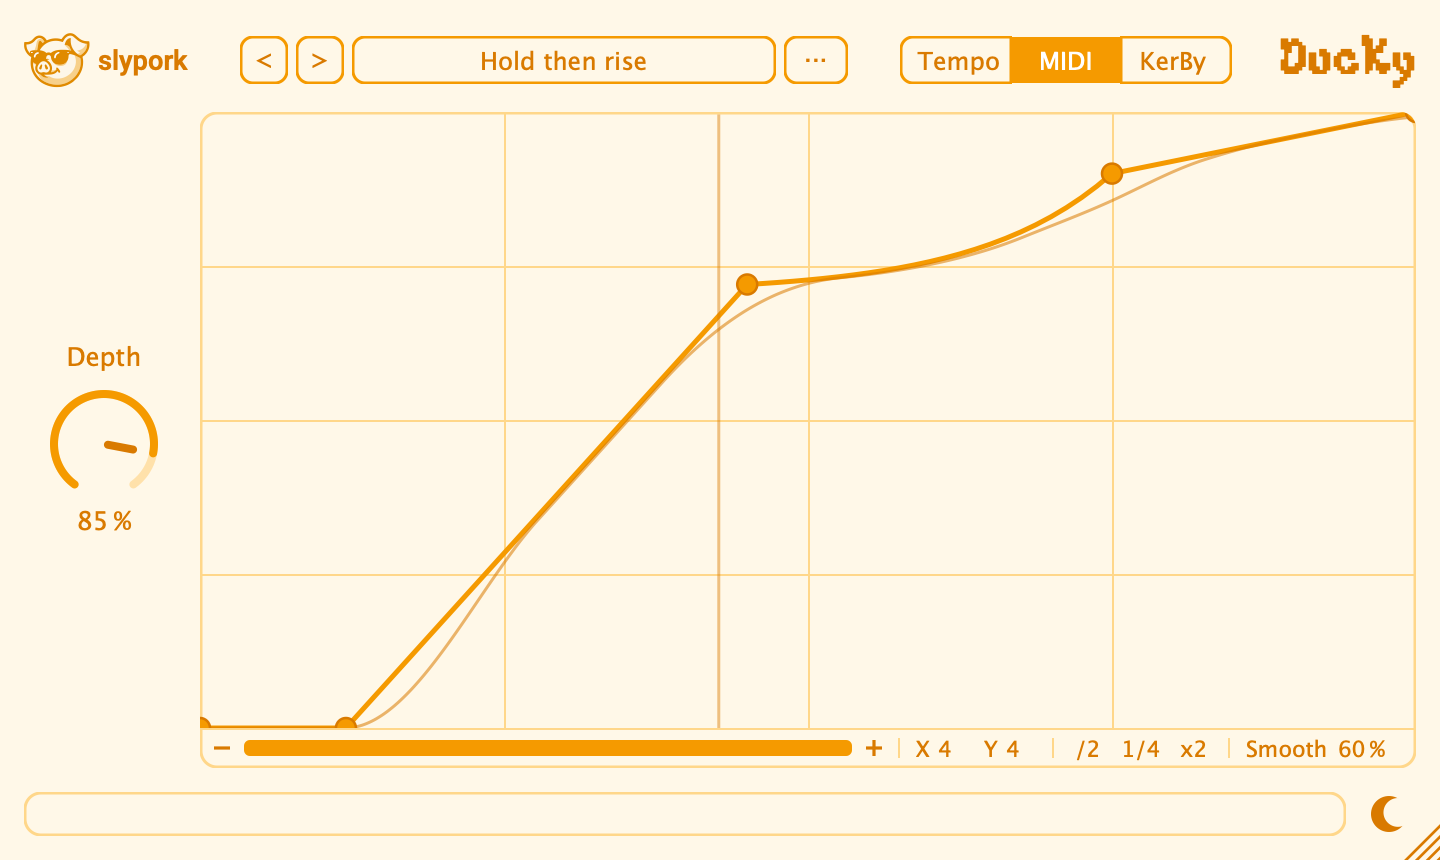
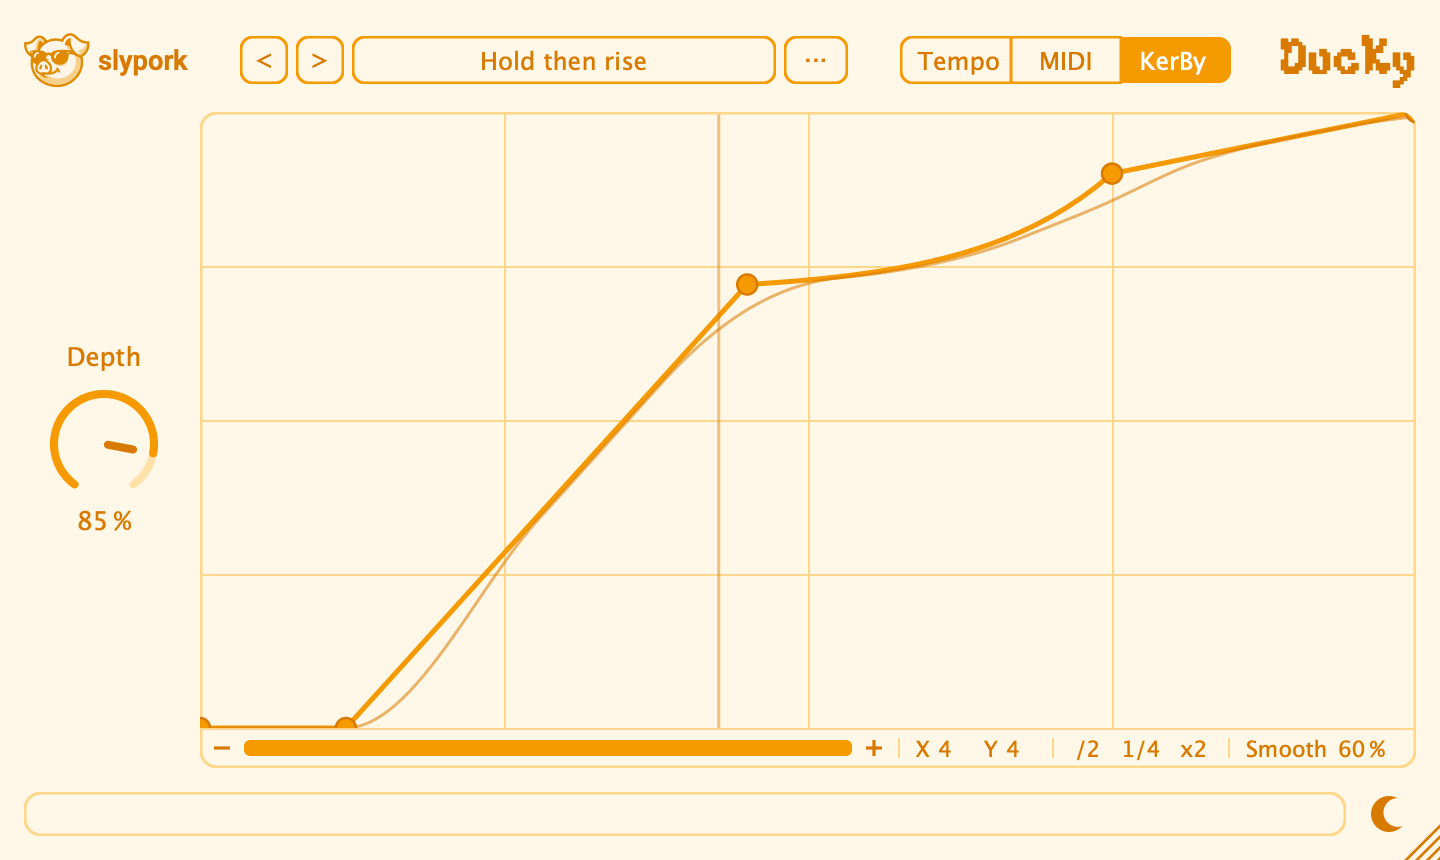
DucKy page leads with KerBy's kick; its capture shows KerBy chosen
The intro and the search and social descriptions open with using KerBy's
kick to duck any track or group with no MIDI routing. "Appears once KerBy is
installed" goes: DucKy now always shows the KerBy cell. The full captures
are the KerBy-trigger pair. Tighter copy through the rest of the page.

Changed region(s): [[0.6875, 0.0302, 0.875, 0.1209]]

diff --git a/ducky/index.html b/ducky/index.html
@@ -9,12 +9,12 @@
     <meta name="viewport" content="width=device-width">
     <title>DucKy | Slypork</title>
     <meta name="description"
-        content="DucKy is a free ducking effect. It dips the volume of any track on the beat, on every MIDI note you send it, or on KerBy’s kick, with a shape you draw. macOS and Windows. Out 10 November.">
+        content="DucKy is a free ducking effect. Use KerBy’s kick to duck any track or group, with no MIDI routing, or duck on the beat or on every MIDI note. Draw the shape yourself. macOS and Windows. Out 10 November.">
     <meta property="og:type" content="website">
     <meta property="og:site_name" content="Slypork">
     <meta property="og:title" content="DucKy: a free ducking effect">
     <meta property="og:description"
-        content="DucKy is a free ducking effect. It dips the volume of any track on the beat, on every MIDI note you send it, or on KerBy’s kick, with a shape you draw. macOS and Windows. Out 10 November.">
+        content="DucKy is a free ducking effect. Use KerBy’s kick to duck any track or group, with no MIDI routing, or duck on the beat or on every MIDI note. Draw the shape yourself. macOS and Windows. Out 10 November.">
     <meta property="og:url" content="https://slypork.net/ducky/">
     <meta property="og:image" content="https://slypork.net/assets/images/software/DucKy_lightmode.png">
     <meta property="og:image:width" content="1440">
@@ -98,8 +98,8 @@
                         <p class="kerby-eyebrow">Effect plugin · Free</p>
                         <h1 class="font-kerby">DucKy</h1>
                         <p class="kerby-lead">KerBy’s duck,<br>on anything.</p>
-                        <p class="kerby-intro">Put it on any track or group and it dips the volume on the beat, on
-                            every MIDI note you send it, or on KerBy’s kick. Draw the shape of the dip and set how deep it goes.</p>
+                        <p class="kerby-intro">A simple volume shaper. Use KerBy’s kick to duck any track or group, with
+                            no MIDI routing.</p>
                         <p class="kerby-availability">Free · out 10 November, alongside <a href="/kerby/"
                                 class="link-underline">KerBy</a>
                             <span>macOS 11+ · AU / VST3</span>
@@ -115,7 +115,7 @@
                                     srcset="/assets/images/software/DucKy_darkmode.png">
                                 <img src="/assets/images/software/DucKy_lightmode.png" width="1440" height="860"
                                     fetchpriority="high"
-                                    alt="DucKy: a drawn duck shape fills the plot, with the Depth knob beside it, Tempo, MIDI and KerBy at the top, and Duck Rate and Smooth along the plot’s bottom edge.">
+                                    alt="DucKy: a drawn duck shape fills the plot, with the Depth knob beside it, KerBy chosen from Tempo, MIDI and KerBy at the top, and Duck Rate and Smooth along the plot’s bottom edge.">
                             </picture>
                         </a>
                         <figcaption><span>Click to take a closer look <span aria-hidden="true">↑</span></span>
@@ -124,7 +124,7 @@
 
                     <section class="kerby-section" aria-labelledby="ducky-trigger-heading">
                         <p class="kerby-eyebrow">Trigger it</p>
-                        <h2 id="ducky-trigger-heading">On the beat, on every note, or on the kick.</h2>
+                        <h2 id="ducky-trigger-heading">On the beat, the notes or the kick.</h2>
                         <div class="kerby-play-modes">
                             <div>
                                 <h3>
@@ -137,8 +137,7 @@
                                     </picture>
                                     Follow the tempo
                                 </h3>
-                                <p>Ducks at the <span class="kerby-ui">Duck Rate</span>, from 1/1 to 1/16, in time
-                                    with your DAW.</p>
+                                <p>Ducks at the <span class="kerby-ui">Duck Rate</span>, from 1/1 to 1/16.</p>
                             </div>
                             <div>
                                 <h3>
@@ -151,8 +150,7 @@
                                     </picture>
                                     Follow the notes
                                 </h3>
-                                <p>Ducks on every note you send it, on any channel or pitch, even with the transport
-                                    stopped.</p>
+                                <p>Ducks on every MIDI note you send it.</p>
                             </div>
                             <div>
                                 <h3>
@@ -166,7 +164,7 @@
                                     Follow KerBy
                                 </h3>
                                 <p>Ducks on every kick from <a href="/kerby/" class="link-underline">KerBy</a>, with no
-                                    MIDI routing. This option appears once KerBy is installed.</p>
+                                    MIDI routing.</p>
                             </div>
                         </div>
                     </section>
@@ -174,17 +172,15 @@
                     <section class="kerby-section" aria-labelledby="ducky-shape-heading">
                         <p class="kerby-eyebrow">Shape it</p>
                         <h2 id="ducky-shape-heading">Draw the duck.</h2>
-                        <p>Start from Pump, Hold then rise or Soft recovery, or draw your own in the same editor as
-                            KerBy’s Duck tab. <span class="kerby-ui">Depth</span> sets how far it dips, and <span
-                                class="kerby-ui">Smooth</span> rounds off the curve.</p>
-                        <p class="kerby-aside">Save your shapes as presets, as in KerBy.</p>
+                        <p>Pick a preset or draw your own. <span class="kerby-ui">Depth</span> sets how far it dips,
+                            <span class="kerby-ui">Smooth</span> rounds it off.</p>
                     </section>
 
                     <section class="kerby-section" aria-labelledby="ducky-kerby-heading">
                         <p class="kerby-eyebrow">Pair it with KerBy</p>
                         <h2 id="ducky-kerby-heading">Duck your mix to the kick.</h2>
-                        <p>Put DucKy on a group and choose KerBy, and the group pumps with the kick, even as you change
-                            its <span class="kerby-ui">Rate</span> or turn up <span class="kerby-ui">Glitch</span>.</p>
+                        <p>Put DucKy on a group and it pumps with KerBy’s kick, even as you change <span
+                                class="kerby-ui">Rate</span> or turn up <span class="kerby-ui">Glitch</span>.</p>
                         <p class="kerby-aside"><a href="/kerby/learn/duck-your-mix/" class="link-underline">Set it up
                                 in Ableton Live</a></p>
                     </section>

diff --git a/plugins/index.html b/plugins/index.html
@@ -105,10 +105,10 @@
                     <a href="../ducky/" class="plugins-kerby-card">
                         <div class="plugins-kerby-shot">
                             <img src="../assets/images/software/DucKy_lightmode.png" width="1440" height="860"
-                                alt="DucKy: a drawn duck shape fills the plot, with the Depth knob beside it and Tempo, MIDI and KerBy at the top."
+                                alt="DucKy: a drawn duck shape fills the plot, with the Depth knob beside it and KerBy chosen from Tempo, MIDI and KerBy at the top."
                                 class="dark:hidden">
                             <img src="../assets/images/software/DucKy_darkmode.png" width="1440" height="860"
-                                alt="DucKy in its dark theme: a drawn duck shape fills the plot, with the Depth knob beside it and Tempo, MIDI and KerBy at the top."
+                                alt="DucKy in its dark theme: a drawn duck shape fills the plot, with the Depth knob beside it and KerBy chosen from Tempo, MIDI and KerBy at the top."
                                 class="hidden dark:block">
                         </div>
                         <div class="plugins-kerby-text">

diff --git a/assets/css/kerby.css b/assets/css/kerby.css
@@ -112,6 +112,7 @@
 .kerby-mode-selector { flex: 0 0 110px; }
 .kerby-mode-selector img { display: block; width: 110px; height: auto; clip-path: inset(5px 5px 6px 6px round 6px); }
 .kerby-aside { margin-top: 1.2rem; color: var(--kb-muted); font-size: .92rem; }
+.kerby-play-modes .kerby-aside { margin-top: .4rem; }
 .kerby-section p + p:not(.kerby-aside):not(.kerby-intro) { margin-top: .9rem; }
 .kerby-page :is(a, input):focus-visible { outline: 2px solid var(--kb-ink); outline-offset: 5px; }
 @media (max-width: 767px) {

diff --git a/docs/kerby-content.md b/docs/kerby-content.md
@@ -91,7 +91,8 @@ simplifying or redrawing the diagram.
   this repo. A new KerBy image gets a recipe in that script rather than a one-off crop.
   The third-party screenshots (`live-*`, `shaperbox-*`, `thumb-midi`) are made by hand.
 - DucKy (`/ducky/`) is one page in KerBy's layout, recoloured by the `.ducky` class in
-  `kerby.css`. Its full captures (`DucKy_*mode.png`) are the 2x screenshots DucKy's
+  `kerby.css`. Its full captures (`DucKy_*mode.png`) are the KerBy-trigger pair
+  (`DucKy_editor_kerby*.png`, KerBy being what sets DucKy apart) of the 2x screenshots DucKy's
   `ducky_editor_tests` writes to `build-dev/screenshots/` (`DucKy_editor*.png`, one per trigger,
   with a KerBy running so its cell is solid); `ducky/ducky-header-kerby-*` is cropped from the
   KerBy one with KerBy's highlight recipe (the preset button and logo faded), and
